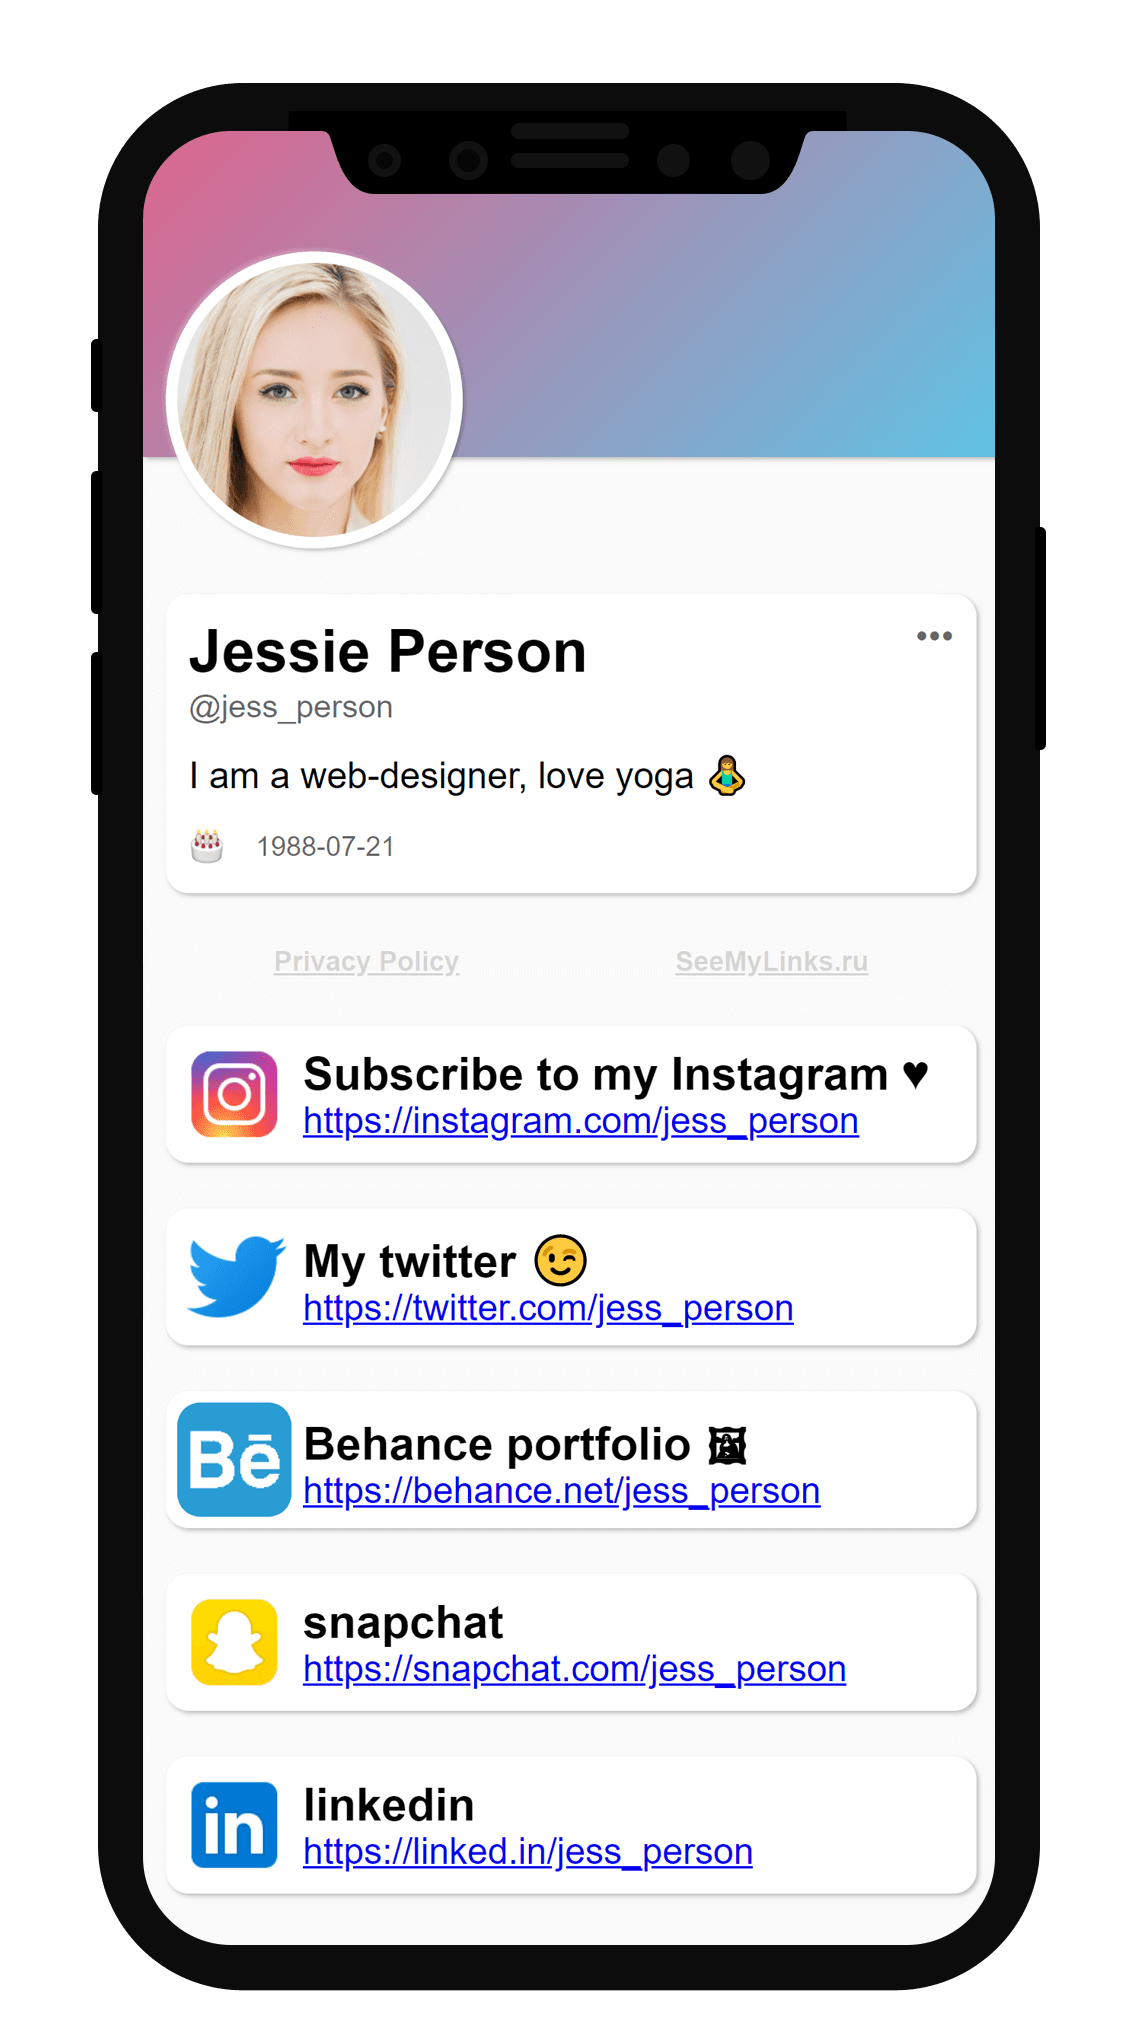
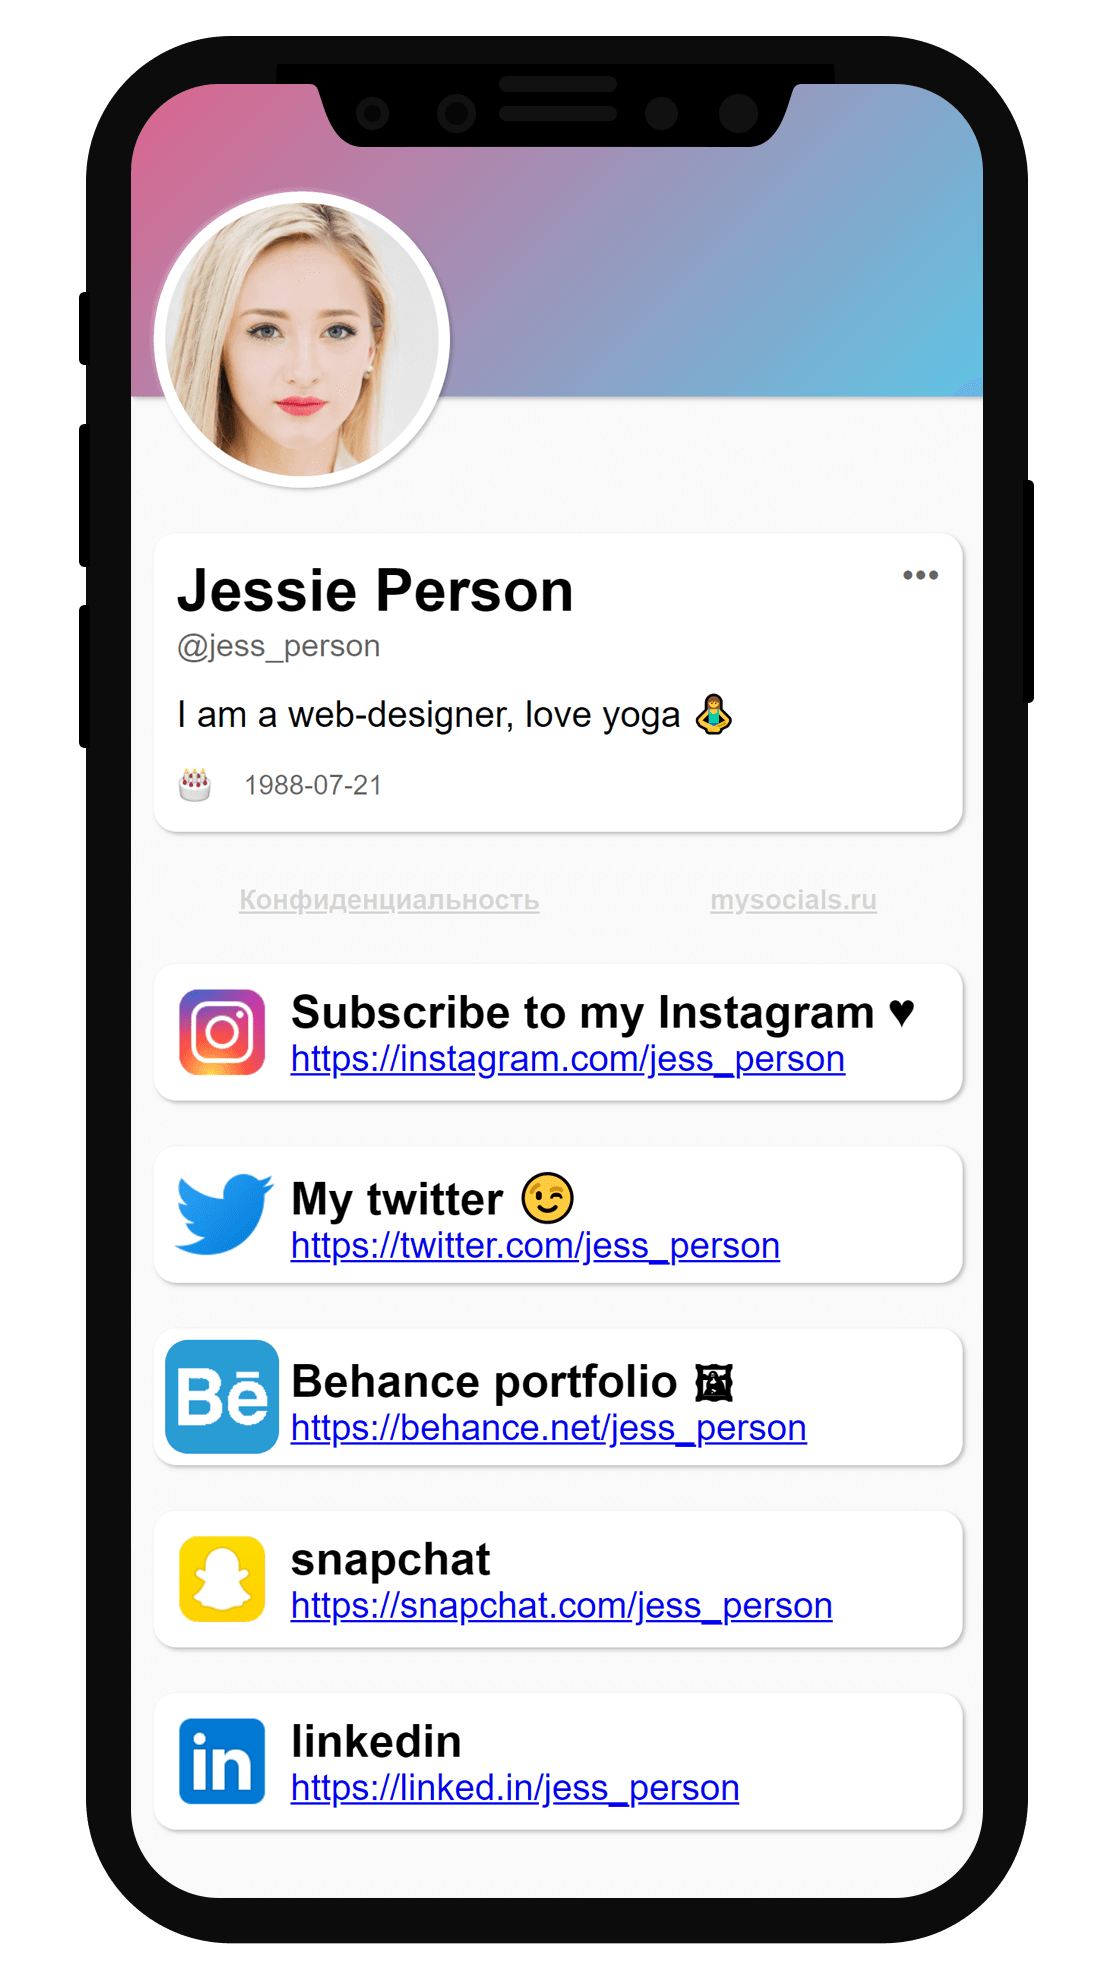
updates

Changed region(s): [[0.0609, 0.0, 0.9444, 0.9541], [0.1828, 0.9541, 0.8226, 0.9849]]

diff --git a/src/components/MainScreen.js b/src/components/MainScreen.js
@@ -69,18 +69,18 @@ const MainScreen = props => {
                 <div className="main__layout__wrapper-content__left">
                     <img style={{
                         width: '100%'
-                    }} src='/img/1.png' alt='img' />
+                    }} src={`/img/${window.matchMedia('(prefers-color-scheme: dark)').matches ? '2' : '1'}.png`} alt='img' />
                    
 
                 </div>
                 <div className='mainscreen__content'>
-
+                    <p style={{textAlign: 'center'}}>{!loginBtn ? 'Регистрация' : 'Авторизация'}</p>
                     {
                         !loginBtn && <form onSubmit={onSubmitRegister}>
                             <Input inputplaceholder='username' type='text' required value={formstate.username} onChange={e => onFormChange(e)} name='username' />
                             <Input inputplaceholder='email' type='email' required value={formstate.email} onChange={e => onFormChange(e)} name='email' />
                             <Input inputplaceholder='password' type='password' required value={formstate.password} onChange={e => onFormChange(e)} name='password' minLength='8' />
-                            <button type='submit' className='button button-success register_login' disabled={[formstate.username, formstate.email, formstate.password].some(v => v.length === 0)} >register</button>
+                            <button type='submit' className='button button-success register_login' disabled={[formstate.username, formstate.email, formstate.password].some(v => v.length === 0)} >Создать аккаунт</button>
                             {
                                 state.success !== undefined && !state.success && <Icon size='14' style={{
                                     display: 'flex',
@@ -116,7 +116,7 @@ const MainScreen = props => {
                         flexDirection: 'row',
                         alignItems: 'center',
                         alignSelf: 'center'
-                    }} onClick={() => setLoginBtn(!loginBtn)} text={loginBtn ? 'Register new acount' : 'Have an accout? Login'} />
+                    }} onClick={() => setLoginBtn(!loginBtn)} text={loginBtn ? 'Нет аккаунта? Создать' : 'Есть аккаунт? Войти'} />
                     <div className="left-links">
                         <p><a href='/privacy'>Конфиденциальность</a></p>
                         {/* <p><a href='https://twitter.com/admin'>mysocials.ru</a></p> */}

diff --git a/src/components/ProfileScreen.js b/src/components/ProfileScreen.js
@@ -71,7 +71,6 @@ const ProfileScreen = props => {
         textField.remove()
     }
 
-    console.log(state);
 
     const formatLink = (type, link) => {
         switch (type) {
